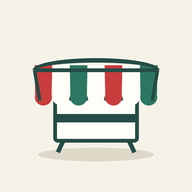
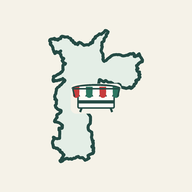
atualiza os icones e o readme

Changed region(s): [[0.1562, 0.125, 0.8438, 0.875]]

diff --git a/web/README.md b/web/README.md
@@ -27,6 +27,13 @@ Os dados GeoJSON são obtidos pelo script em `scripts/` e copiados para `web/dat
 - **API de Geolocalização do navegador:** obtenção da localização do usuário, mediante permissão do navegador.
 - **ESLint e Prettier:** análise estática e formatação dos arquivos do frontend.
 
+Os ícones de instalação combinam o contorno do município de São Paulo,
+baseado na malha territorial do
+[IBGE](https://servicodados.ibge.gov.br/api/v3/malhas/municipios/3550308?formato=application%2Fvnd.geo%2Bjson&qualidade=maxima&projecao=4674),
+com a barraca da feira. A composição e os arquivos dos ícones foram gerados
+pelo [GitHub Copilot](https://github.com/features/copilot), com base nessa fonte
+geográfica.
+
 ## Serviços externos
 
 - **MapTiler:** estilo e mapas de base.
